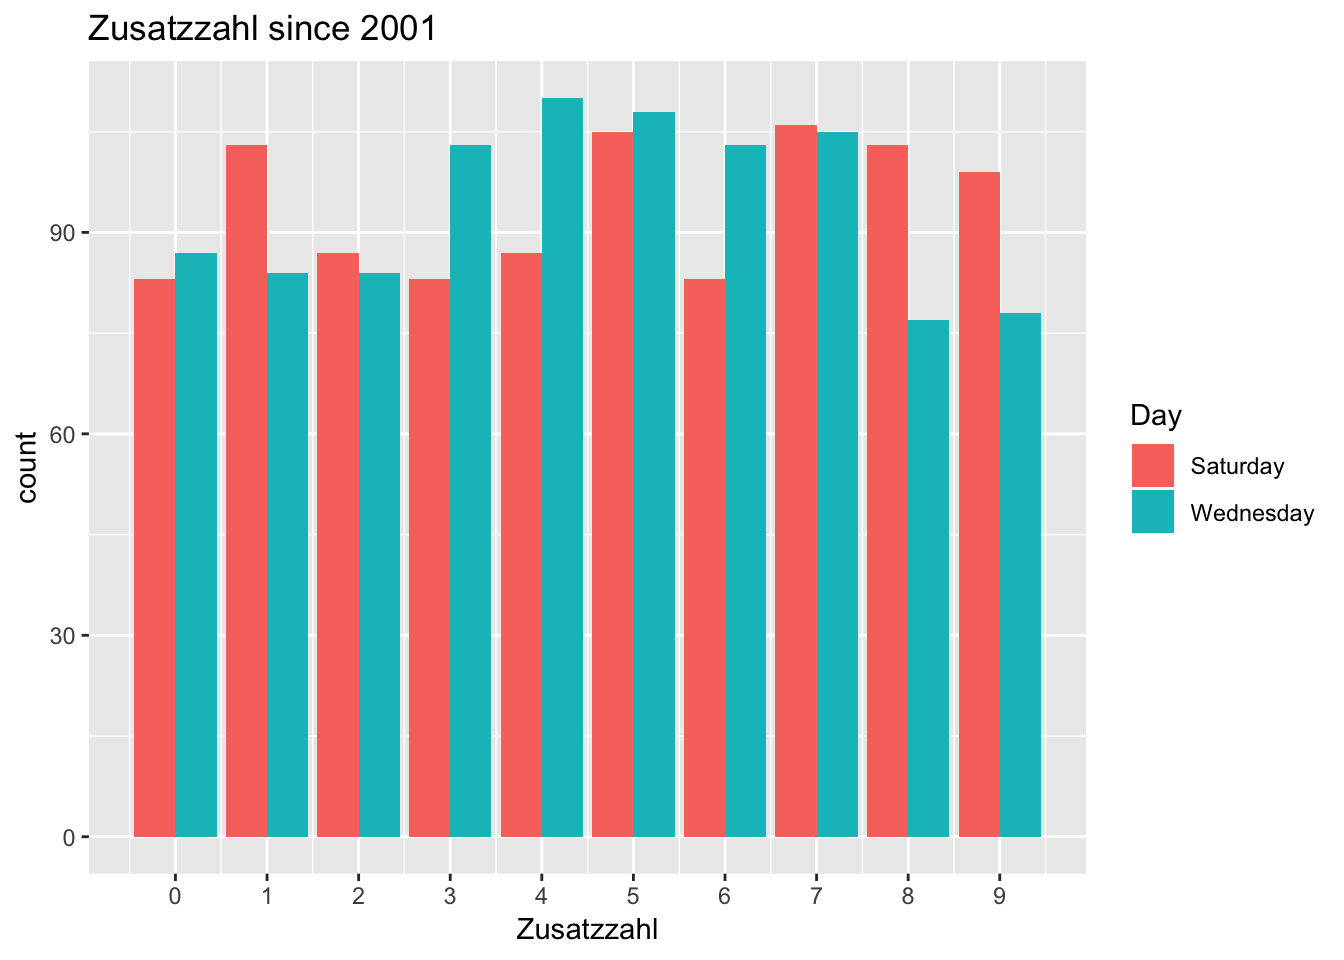
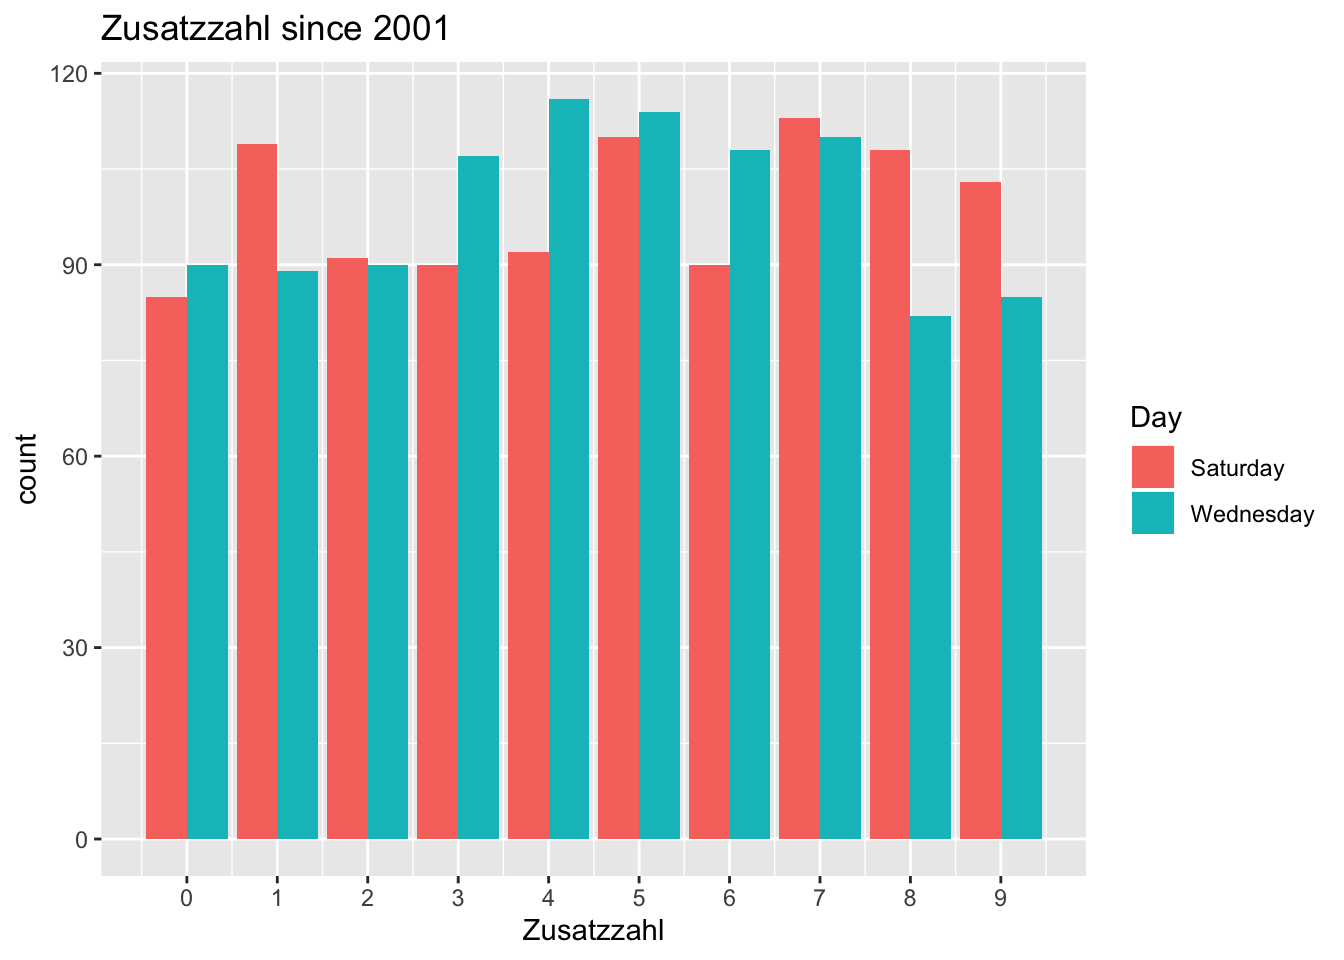
update 2019

diff --git a/README.md b/README.md
@@ -51,11 +51,11 @@ lottonumbers_count %>%
 ## # A tibble: 5 x 2
 ##   value count
 ##   <int> <int>
-## 1     6   581
-## 2    32   565
-## 3    49   562
-## 4    26   559
-## 5    38   554
+## 1     6   593
+## 2    32   573
+## 3    49   571
+## 4    38   568
+## 5    26   567
 ```
 
 Now we want to summarise all numbers from 1-49 and their appearance.
@@ -95,14 +95,14 @@ ggplot(superzahl, aes(value, count, fill = Day)) +
 
 <img src="README_figs/README-unnamed-chunk-5-1.png" width="672" style="display: block; margin: auto;" />
 
-What were the numbers most chosen in 2018?
+What were the numbers most chosen in 2019?
 
 ``` r
 data$data %>% 
   filter(variable == "Lottozahl") %>% 
   mutate(date = dmy(date),
          year = year(date)) %>% 
-  filter(year == 2018) %>% 
+  filter(year == 2019) %>% 
   group_by(value) %>% 
   summarise(count = n()) %>% 
    arrange(desc(count)) %>% 
@@ -111,13 +111,13 @@ data$data %>%
 ## # A tibble: 7 x 2
 ##   value count
 ##   <int> <int>
-## 1     3    22
-## 2    31    20
-## 3     6    19
-## 4    47    19
-## 5    13    17
-## 6    29    17
-## 7    37    17
+## 1    42    22
+## 2    29    20
+## 3    36    18
+## 4    11    17
+## 5    19    17
+## 6    31    17
+## 7    47    17
 ```
 
 ### Python
@@ -128,14 +128,17 @@ executed.
 
 ``` python
 import pandas as pd
+
 data = pd.read_json("https://johannesfriedrich.github.io/LottoNumberArchive/Lottonumbers_tidy_complete.json",orient='split')
+
 res = data[data.variable == "Lottozahl"].groupby("value")["value"].count().sort_values(ascending = False)
+
 print(res.head(5))
 ## value
-## 6     581
-## 32    565
-## 49    562
-## 26    559
-## 38    554
+## 6     593
+## 32    573
+## 49    571
+## 38    568
+## 26    567
 ## Name: value, dtype: int64
 ```
